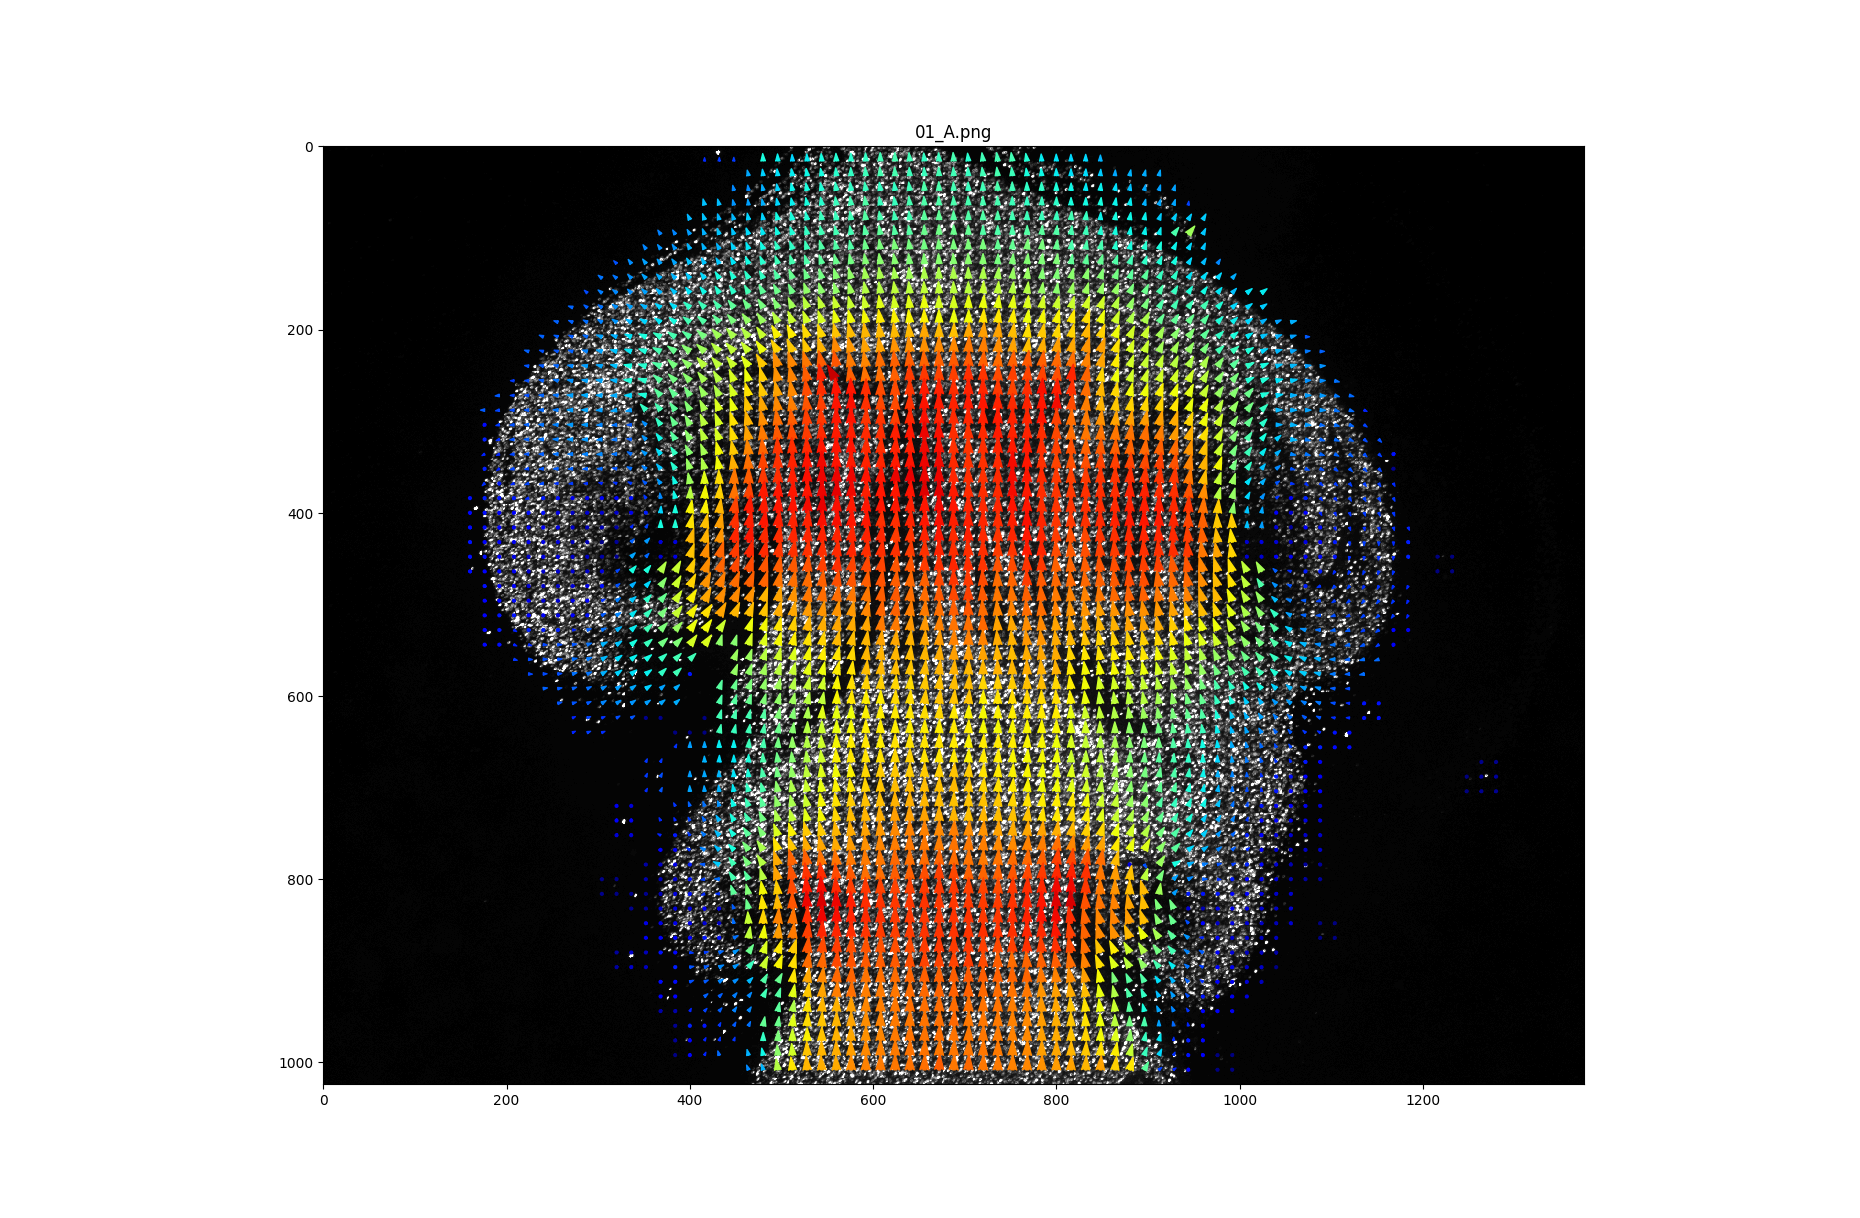
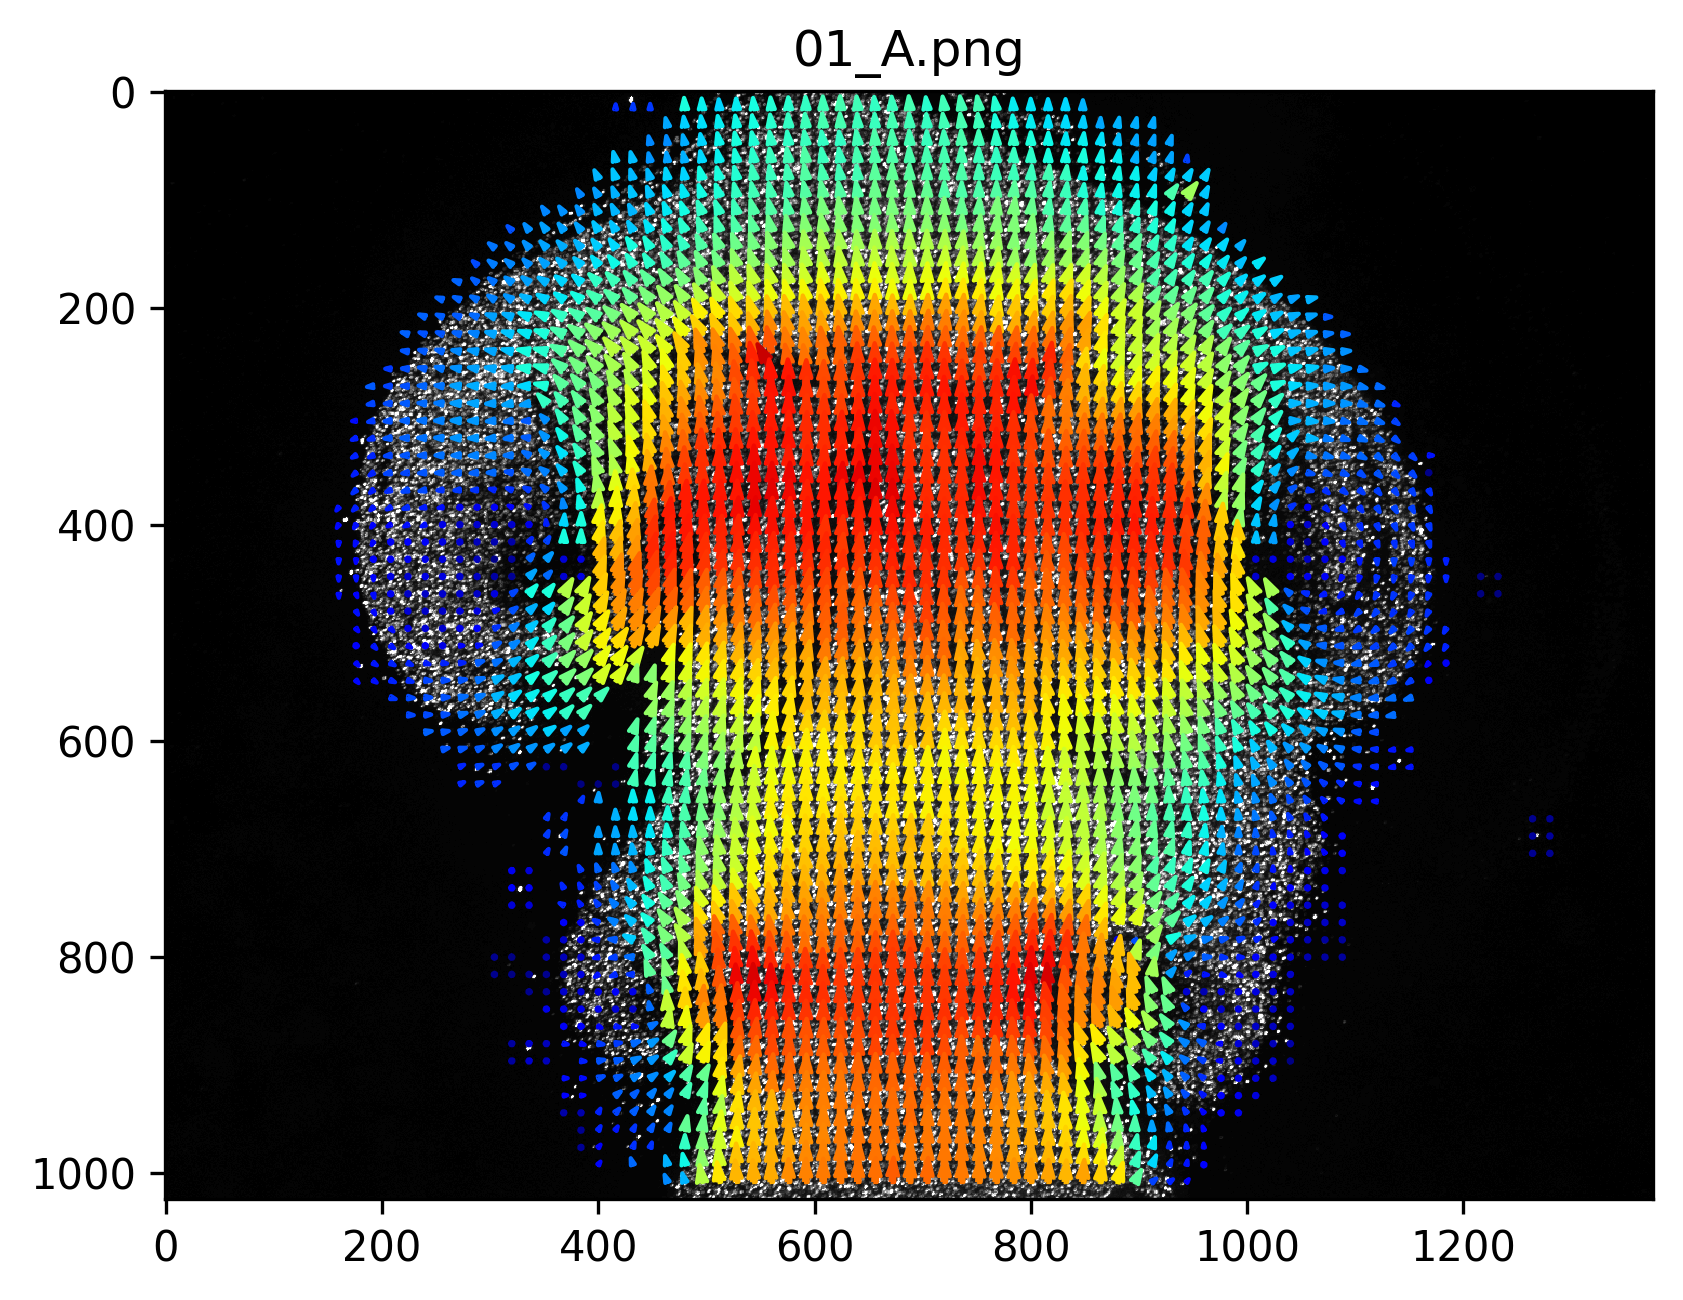
Auto-save figure to disk when `DEBUG`

diff --git a/src_Python/main.py b/src_Python/main.py
@@ -437,7 +437,7 @@ if __name__ == "__main__":
                     np.zeros(VM_dy.shape),
                     angles="xy",
                     scale_units="xy",
-                    scale=2,
+                    scale=1,  # Scales down by `scale`
                     # color="r",
                     color=colormap(colors),
                     linewidths=1,
@@ -453,6 +453,7 @@ if __name__ == "__main__":
             plt.pause(0.0001)  # type: ignore
 
             if cfg.DEBUG:
+                plt.savefig("output_VM.png", dpi=300, bbox_inches="tight")  # type: ignore
                 plt.waitforbuttonpress()  # type: ignore
                 # plt.show()  # type: ignore
 
